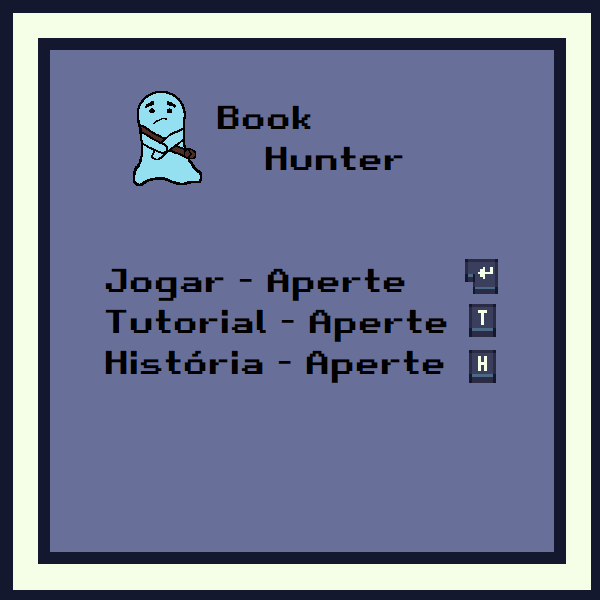
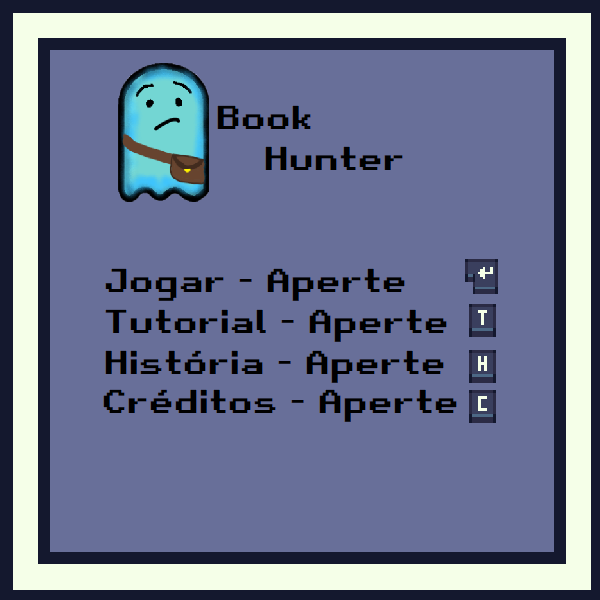
Ajustes no codigo e tela adicional
voltar ao menu, diminuir tempo, tela de creditos, mudar sprite do hope

Changed region(s): [[0.18, 0.09, 0.36, 0.36], [0.15, 0.63, 0.84, 0.72]]

diff --git a/index.js b/index.js
@@ -108,6 +108,29 @@ class Book {
     }
 }
 
+function paraJogo() {
+    clearInterval(cronometro);
+    bgSound.pause();
+    player.position = {
+        x: 100,
+        y: 100
+    }
+    player.velocity = {
+        x: 0,
+        y: 0
+    }
+
+    keys.left.pressed = false;
+    keys.right.pressed = false;
+        
+    player.bookCountLeft = 0;
+    player.bookCountRight = 0;
+    player.allCount = 0;
+    player.bookType = "";
+
+    book.mudaLivro();
+}
+
 function generateRandom(min, max) {
     let difference = max - min;
     let rand = Math.random();
@@ -184,7 +207,7 @@ function animate() {
                 }
             }
         } else {
-            tempoJogo = 240;
+            tempoJogo = 60;
             estadoAtual = estados.fimJogo;
         }
     } else if (estadoAtual == estados.menu) {
@@ -193,6 +216,8 @@ function animate() {
         c.drawImage(tutorial, 0, 0, canvas.width, canvas.height);
     } else if (estadoAtual == estados.historia) {
         c.drawImage(historia, 0, 0, canvas.width, canvas.height);
+    } else if (estadoAtual == estados.creditos) {
+        c.drawImage(creditos, 0, 0, canvas.width, canvas.height);
     } else if (estadoAtual == estados.fimJogo) {
         if (pontoFinal >= record) {
             record = pontoFinal;
@@ -209,7 +234,8 @@ var estados = { //tipo de status do jogo
 	jogando: 1,
     tutorial: 2,
     historia: 3,
-    fimJogo: 4
+    creditos: 4,
+    fimJogo: 5
 },
 estadoAtual = 0;
 
@@ -222,7 +248,8 @@ const keys = {
         pressed: false
     }
 }
-var tempoJogo = 240;
+var cronometro;
+var tempoJogo = 60;
 var pontoFinal = 0;
 var record = localStorage.getItem("record");
 if (record == null) {
@@ -235,12 +262,14 @@ var tutorial = document.createElement("img");
 tutorial.src = "Imagens/tutorial.png";
 var historia = document.createElement("img");
 historia.src = "Imagens/historia.png";
+var creditos = document.createElement("img");
+creditos.src = "Imagens/Creditos.jpg";
 var fimJogo = document.createElement("img");
 fimJogo.src = "Imagens/fimJogo.png";
 var background = document.createElement("img");
 background.src = "Imagens/cenario_web.png";
 var personagem = document.createElement("img");
-personagem.src = "Imagens/hope.png";
+personagem.src = "Imagens/hopes.png";
 var livroAzul = document.createElement("img");
 livroAzul.src = "Imagens/livroAzul.png";
 var livroVermelho = document.createElement("img");
@@ -274,29 +303,37 @@ animate()
 addEventListener('keydown', ({ keyCode }) => {
     if (estadoAtual == estados.jogando) {
         switch (keyCode) {
+            // Tecla "A"
             case 65:
                 keys.left.pressed = true;
                 break
     
-            case 83:
-                break
-    
+            // Tecla "D"
             case 68:
                 keys.right.pressed = true;
                 break
     
+            // Tecla "W" ou "SPACE"
             case 87:
             case 32: 
                 player.velocity.y -= 10
                 pulaSom.play()
                 break
             
+            // Tecla "Q"
             case 81:
                 player.book = "left";
                 break;
     
+            // Tecla "E"
             case 69:
                 player.book = "right";
+                break;
+
+            // Tecla "ESC"
+            case 27:
+                estadoAtual = estados.menu;
+                paraJogo();
                 break;
         }
     } else if (estadoAtual == estados.menu) {
@@ -305,7 +342,7 @@ addEventListener('keydown', ({ keyCode }) => {
             case 13:                
                 estadoAtual = estados.jogando;
                 bgSound.play();
-                var cronometro = setInterval(() => {
+                cronometro = setInterval(() => {
                     if (estadoAtual == estados.jogando) {
                         tempoJogo--;
                     }                    
@@ -319,8 +356,12 @@ addEventListener('keydown', ({ keyCode }) => {
             case 84:
                 estadoAtual = estados.tutorial;
                 break;
+            // tecla "c"
+            case 67:
+                estadoAtual = estados.creditos;
+                break;
         }
-    } else if (estadoAtual == estados.historia || estadoAtual == estados.tutorial) {
+    } else if (estadoAtual == estados.historia || estadoAtual == estados.tutorial || estadoAtual == estados.creditos) {
         switch (keyCode) {
             // tecla "Enter"
             case 13:
@@ -328,24 +369,7 @@ addEventListener('keydown', ({ keyCode }) => {
                 break;
         }
     } else if (estadoAtual == estados.fimJogo) {
-        clearInterval(cronometro);
-        bgSound.pause();
-        player.position = {
-            x: 100,
-            y: 100
-        }
-        player.velocity = {
-            x: 0,
-            y: 0
-        }
-
-        keys.left.pressed = false;
-        keys.right.pressed = false;
-        
-        player.bookCountLeft = 0;
-        player.bookCountRight = 0;
-        player.allCount = 0;
-        player.bookType = "";
+        paraJogo();
 
         switch (keyCode) {
             // tecla "Enter"

diff --git a/index.html b/index.html
@@ -4,7 +4,7 @@
 <head>
     <meta charset="UTF-8">
     <meta http-equiv="X-UA-Compatible" content="IE=edge">
-    <link rel="icon" href="Imagens/hope.png">
+    <link rel="icon" href="Imagens/hopes.png">
     <title>Book Hunter</title>
     <style>
         body {
